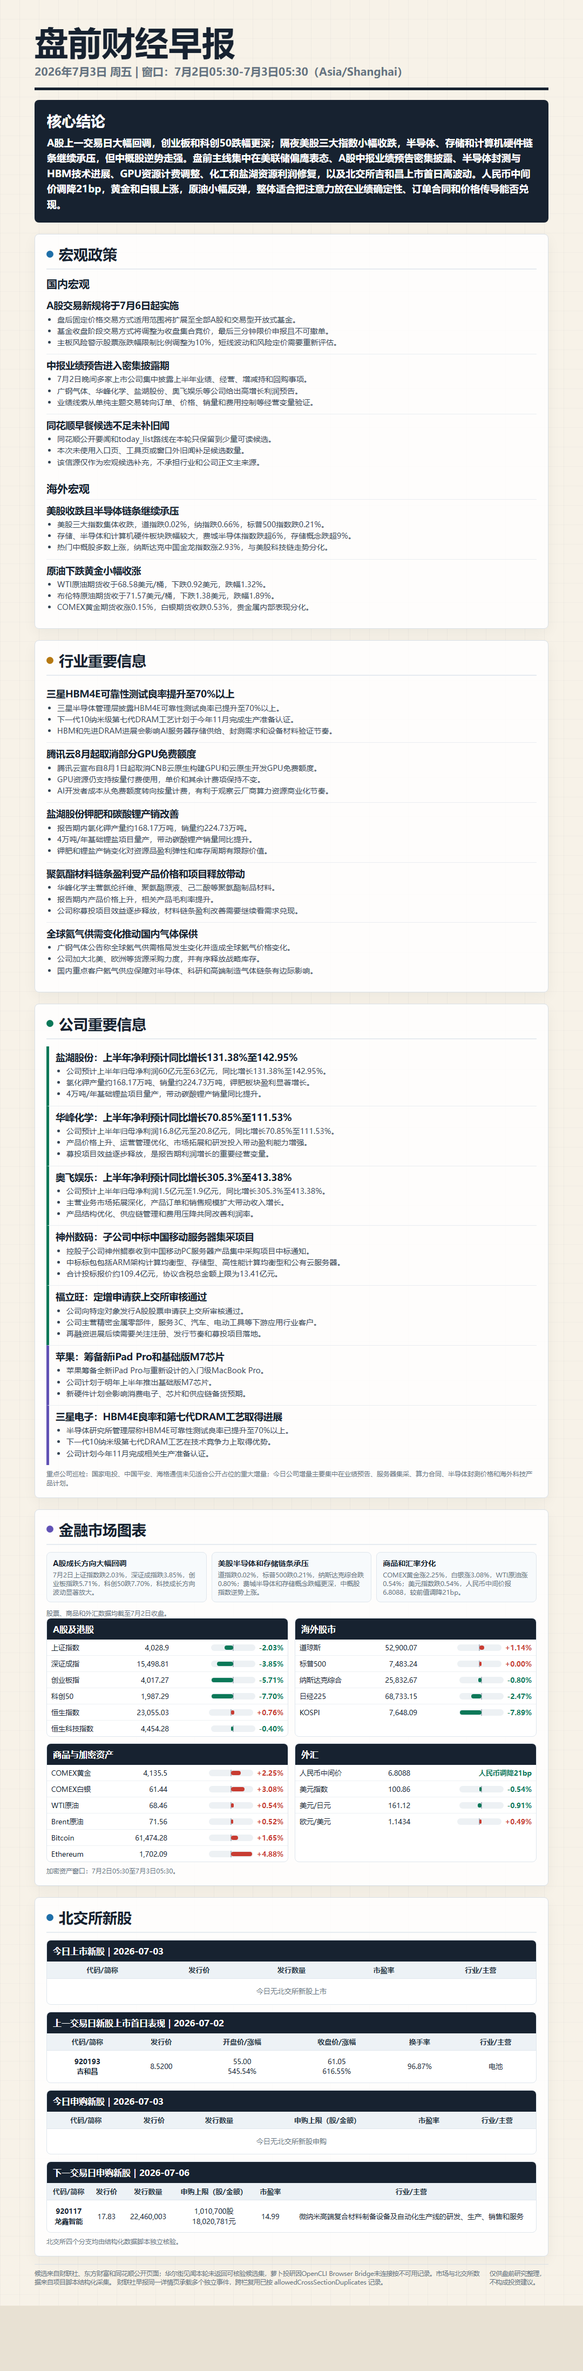
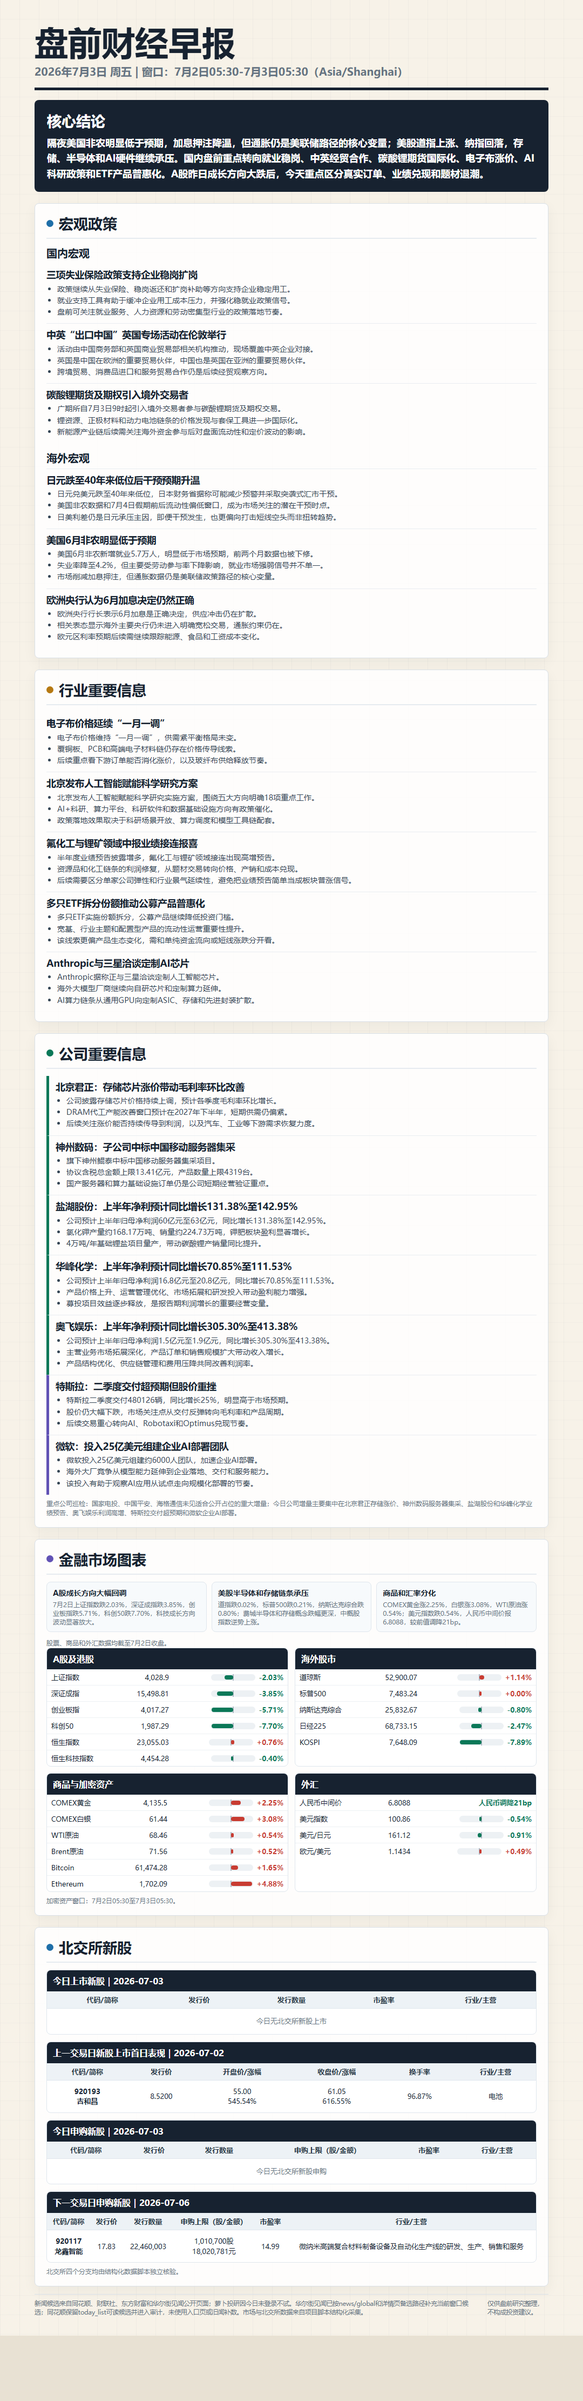
Update 2026-07-03 morning brief news

Changed region(s): [[0.0611, 0.0, 0.9472, 0.9676]]

diff --git a/2026-07-03/report.html b/2026-07-03/report.html
@@ -23,50 +23,62 @@
 </head>
 <body><main class="sheet">
   <header><h1>盘前财经早报</h1><div class="date">2026年7月3日 周五 | 窗口：7月2日05:30-7月3日05:30（Asia/Shanghai）</div></header>
-  <section class="lead"><h2>核心结论</h2><p>A股上一交易日大幅回调，创业板和科创50跌幅更深；隔夜美股三大指数小幅收跌，半导体、存储和计算机硬件链条继续承压，但中概股逆势走强。盘前主线集中在美联储偏鹰表态、A股中报业绩预告密集披露、半导体封测与HBM技术进展、GPU资源计费调整、化工和盐湖资源利润修复，以及北交所吉和昌上市首日高波动。人民币中间价调降21bp，黄金和白银上涨，原油小幅反弹，整体适合把注意力放在业绩确定性、订单合同和价格传导能否兑现。</p></section>
+  <section class="lead"><h2>核心结论</h2><p>隔夜美国非农明显低于预期，加息押注降温，但通胀仍是美联储路径的核心变量；美股道指上涨、纳指回落，存储、半导体和AI硬件继续承压。国内盘前重点转向就业稳岗、中英经贸合作、碳酸锂期货国际化、电子布涨价、AI科研政策和ETF产品普惠化。A股昨日成长方向大跌后，今天重点区分真实订单、业绩兑现和题材退潮。</p></section>
   <section class="section"><h2 class="section-title"><span class="dot"></span>宏观政策</h2><h3 class="subhead">国内宏观</h3>
     <article class="item ">
-      <h4>A股交易新规将于7月6日起实施</h4>
-      <ul><li>盘后固定价格交易方式适用范围将扩展至全部A股和交易型开放式基金。</li><li>基金收盘阶段交易方式将调整为收盘集合竞价，最后三分钟限价申报且不可撤单。</li><li>主板风险警示股票涨跌幅限制比例调整为10%，短线波动和风险定价需要重新评估。</li></ul>
+      <h4>三项失业保险政策支持企业稳岗扩岗</h4>
+      <ul><li>政策继续从失业保险、稳岗返还和扩岗补助等方向支持企业稳定用工。</li><li>就业支持工具有助于缓冲企业用工成本压力，并强化稳就业政策信号。</li><li>盘前可关注就业服务、人力资源和劳动密集型行业的政策落地节奏。</li></ul>
     </article>
     <article class="item ">
-      <h4>中报业绩预告进入密集披露期</h4>
-      <ul><li>7月2日晚间多家上市公司集中披露上半年业绩、经营、增减持和回购事项。</li><li>广钢气体、华峰化学、盐湖股份、奥飞娱乐等公司给出高增长利润预告。</li><li>业绩线索从单纯主题交易转向订单、价格、销量和费用控制等经营变量验证。</li></ul>
+      <h4>中英“出口中国”英国专场活动在伦敦举行</h4>
+      <ul><li>活动由中国商务部和英国商业贸易部相关机构推动，现场覆盖中英企业对接。</li><li>英国是中国在欧洲的重要贸易伙伴，中国也是英国在亚洲的重要贸易伙伴。</li><li>跨境贸易、消费品进口和服务贸易合作仍是后续经贸观察方向。</li></ul>
     </article>
     <article class="item ">
-      <h4>同花顺早餐候选不足未补旧闻</h4>
-      <ul><li>同花顺公开要闻和today_list路线在本轮只保留到少量可读候选。</li><li>本次未使用入口页、工具页或窗口外旧闻补足候选数量。</li><li>该信源仅作为宏观候选补充，不承担行业和公司正文主来源。</li></ul>
+      <h4>碳酸锂期货及期权引入境外交易者</h4>
+      <ul><li>广期所自7月3日9时起引入境外交易者参与碳酸锂期货及期权交易。</li><li>锂资源、正极材料和动力电池链条的价格发现与套保工具进一步国际化。</li><li>新能源产业链后续需关注海外资金参与后对盘面流动性和定价波动的影响。</li></ul>
     </article><h3 class="subhead">海外宏观</h3>
     <article class="item ">
-      <h4>美股收跌且半导体链条继续承压</h4>
-      <ul><li>美股三大指数集体收跌，道指跌0.02%，纳指跌0.66%，标普500指数跌0.21%。</li><li>存储、半导体和计算机硬件板块跌幅较大，费城半导体指数跌超6%，存储概念跌超9%。</li><li>热门中概股多数上涨，纳斯达克中国金龙指数涨2.93%，与美股科技链走势分化。</li></ul>
+      <h4>日元跌至40年来低位后干预预期升温</h4>
+      <ul><li>日元兑美元跌至40年来低位，日本财务省据称可能减少预警并采取突袭式汇市干预。</li><li>美国非农数据和7月4日假期前后流动性偏低窗口，成为市场关注的潜在干预时点。</li><li>日美利差仍是日元承压主因，即便干预发生，也更偏向打击短线空头而非扭转趋势。</li></ul>
     </article>
     <article class="item ">
-      <h4>原油下跌黄金小幅收涨</h4>
-      <ul><li>WTI原油期货收于68.58美元/桶，下跌0.92美元，跌幅1.32%。</li><li>布伦特原油期货收于71.57美元/桶，下跌1.38美元，跌幅1.89%。</li><li>COMEX黄金期货收涨0.15%，白银期货收跌0.53%，贵金属内部表现分化。</li></ul>
+      <h4>美国6月非农明显低于预期</h4>
+      <ul><li>美国6月非农新增就业5.7万人，明显低于市场预期，前两个月数据也被下修。</li><li>失业率降至4.2%，但主要受劳动参与率下降影响，就业市场强弱信号并不单一。</li><li>市场削减加息押注，但通胀数据仍是美联储政策路径的核心变量。</li></ul>
+    </article>
+    <article class="item ">
+      <h4>欧洲央行认为6月加息决定仍然正确</h4>
+      <ul><li>欧洲央行行长表示6月加息是正确决定，供应冲击仍在扩散。</li><li>相关表态显示海外主要央行仍未进入明确宽松交易，通胀约束仍在。</li><li>欧元区利率预期后续需继续跟踪能源、食品和工资成本变化。</li></ul>
     </article></section>
   <section class="section"><h2 class="section-title"><span class="dot" style="background:var(--gold)"></span>行业重要信息</h2>
     <article class="item ">
-      <h4>三星HBM4E可靠性测试良率提升至70%以上</h4>
-      <ul><li>三星半导体管理层披露HBM4E可靠性测试良率已提升至70%以上。</li><li>下一代10纳米级第七代DRAM工艺计划于今年11月完成生产准备认证。</li><li>HBM和先进DRAM进展会影响AI服务器存储供给、封测需求和设备材料验证节奏。</li></ul>
+      <h4>电子布价格延续“一月一调”</h4>
+      <ul><li>电子布价格维持“一月一调”，供需紧平衡格局未变。</li><li>覆铜板、PCB和高端电子材料链仍存在价格传导线索。</li><li>后续重点看下游订单能否消化涨价，以及玻纤布供给释放节奏。</li></ul>
     </article>
     <article class="item ">
-      <h4>腾讯云8月起取消部分GPU免费额度</h4>
-      <ul><li>腾讯云宣布自8月1日起取消CNB云原生构建GPU和云原生开发GPU免费额度。</li><li>GPU资源仍支持按量付费使用，单价和其余计费项保持不变。</li><li>AI开发者成本从免费额度转向按量计费，有利于观察云厂商算力资源商业化节奏。</li></ul>
+      <h4>北京发布人工智能赋能科学研究方案</h4>
+      <ul><li>北京发布人工智能赋能科学研究实施方案，围绕五大方向明确18项重点工作。</li><li>AI+科研、算力平台、科研软件和数据基础设施方向有政策催化。</li><li>政策落地效果取决于科研场景开放、算力调度和模型工具链配套。</li></ul>
     </article>
     <article class="item ">
-      <h4>盐湖股份钾肥和碳酸锂产销改善</h4>
-      <ul><li>报告期内氯化钾产量约168.17万吨，销量约224.73万吨。</li><li>4万吨/年基础锂盐项目量产，带动碳酸锂产销量同比提升。</li><li>钾肥和锂盐产销变化对资源品盈利弹性和库存周期有跟踪价值。</li></ul>
+      <h4>氟化工与锂矿领域中报业绩接连报喜</h4>
+      <ul><li>半年度业绩预告披露增多，氟化工与锂矿领域接连出现高增预告。</li><li>资源品和化工链条的利润修复，从题材交易转向价格、产销和成本兑现。</li><li>后续需要区分单家公司弹性和行业景气延续性，避免把业绩预告简单当成板块普涨信号。</li></ul>
     </article>
     <article class="item ">
-      <h4>聚氨酯材料链条盈利受产品价格和项目释放带动</h4>
-      <ul><li>华峰化学主营氨纶纤维、聚氨酯原液、己二酸等聚氨酯制品材料。</li><li>报告期内产品价格上升，相关产品毛利率提升。</li><li>公司称募投项目效益逐步释放，材料链条盈利改善需要继续看需求兑现。</li></ul>
+      <h4>多只ETF拆分份额推动公募产品普惠化</h4>
+      <ul><li>多只ETF实施份额拆分，公募产品继续降低投资门槛。</li><li>宽基、行业主题和配置型产品的流动性运营重要性提升。</li><li>该线索更偏产品生态变化，需和单纯资金流向或短线涨跌分开看。</li></ul>
     </article>
     <article class="item ">
-      <h4>全球氦气供需变化推动国内气体保供</h4>
-      <ul><li>广钢气体公告称全球氦气供需格局发生变化并造成全球氦气价格变化。</li><li>公司加大北美、欧洲等货源采购力度，并有序释放战略库存。</li><li>国内重点客户氦气供应保障对半导体、科研和高端制造气体链条有边际影响。</li></ul>
+      <h4>Anthropic与三星洽谈定制AI芯片</h4>
+      <ul><li>Anthropic据称正与三星洽谈定制人工智能芯片。</li><li>海外大模型厂商继续向自研芯片和定制算力延伸。</li><li>AI算力链条从通用GPU向定制ASIC、存储和先进封装扩散。</li></ul>
     </article></section>
   <section class="section"><h2 class="section-title"><span class="dot" style="background:var(--green)"></span>公司重要信息</h2>
+    <article class="item company-line">
+      <h4>北京君正：存储芯片涨价带动毛利率环比改善</h4>
+      <ul><li>公司披露存储芯片价格持续上调，预计各季度毛利率环比增长。</li><li>DRAM代工产能改善窗口预计在2027年下半年，短期供需仍偏紧。</li><li>后续关注涨价能否持续传导到利润，以及汽车、工业等下游需求恢复力度。</li></ul>
+    </article>
+    <article class="item company-line">
+      <h4>神州数码：子公司中标中国移动服务器集采</h4>
+      <ul><li>旗下神州鲲泰中标中国移动服务器集采项目。</li><li>协议含税总金额上限13.41亿元，产品数量上限4319台。</li><li>国产服务器和算力基础设施订单仍是公司短期经营验证重点。</li></ul>
+    </article>
     <article class="item company-line">
       <h4>盐湖股份：上半年净利预计同比增长131.38%至142.95%</h4>
       <ul><li>公司预计上半年归母净利润60亿元至63亿元，同比增长131.38%至142.95%。</li><li>氯化钾产量约168.17万吨、销量约224.73万吨，钾肥板块盈利显著增长。</li><li>4万吨/年基础锂盐项目量产，带动碳酸锂产销量同比提升。</li></ul>
@@ -76,26 +88,18 @@
       <ul><li>公司预计上半年归母净利润16.8亿元至20.8亿元，同比增长70.85%至111.53%。</li><li>产品价格上升、运营管理优化、市场拓展和研发投入带动盈利能力增强。</li><li>募投项目效益逐步释放，是报告期利润增长的重要经营变量。</li></ul>
     </article>
     <article class="item company-line">
-      <h4>奥飞娱乐：上半年净利预计同比增长305.3%至413.38%</h4>
-      <ul><li>公司预计上半年归母净利润1.5亿元至1.9亿元，同比增长305.3%至413.38%。</li><li>主营业务市场拓展深化，产品订单和销售规模扩大带动收入增长。</li><li>产品结构优化、供应链管理和费用压降共同改善利润率。</li></ul>
-    </article>
-    <article class="item company-line">
-      <h4>神州数码：子公司中标中国移动服务器集采项目</h4>
-      <ul><li>控股子公司神州鲲泰收到中国移动PC服务器产品集中采购项目中标通知。</li><li>中标标包包括ARM架构计算均衡型、存储型、高性能计算均衡型和公有云服务器。</li><li>合计投标报价约109.4亿元，协议含税总金额上限为13.41亿元。</li></ul>
-    </article>
-    <article class="item company-line">
-      <h4>福立旺：定增申请获上交所审核通过</h4>
-      <ul><li>公司向特定对象发行A股股票申请获上交所审核通过。</li><li>公司主营精密金属零部件，服务3C、汽车、电动工具等下游应用行业客户。</li><li>再融资进展后续需要关注注册、发行节奏和募投项目落地。</li></ul>
+      <h4>奥飞娱乐：上半年净利预计同比增长305.30%至413.38%</h4>
+      <ul><li>公司预计上半年归母净利润1.5亿元至1.9亿元，同比增长305.30%至413.38%。</li><li>主营业务市场拓展深化，产品订单和销售规模扩大带动收入增长。</li><li>产品结构优化、供应链管理和费用压降共同改善利润率。</li></ul>
     </article>
     <article class="item company-line overseas">
-      <h4>苹果：筹备新iPad Pro和基础版M7芯片</h4>
-      <ul><li>苹果筹备全新iPad Pro与重新设计的入门级MacBook Pro。</li><li>公司计划于明年上半年推出基础版M7芯片。</li><li>新硬件计划会影响消费电子、芯片和供应链备货预期。</li></ul>
+      <h4>特斯拉：二季度交付超预期但股价重挫</h4>
+      <ul><li>特斯拉二季度交付480126辆，同比增长25%，明显高于市场预期。</li><li>股价仍大幅下跌，市场关注点从交付反弹转向毛利率和产品周期。</li><li>后续交易重心转向AI、Robotaxi和Optimus兑现节奏。</li></ul>
     </article>
     <article class="item company-line overseas">
-      <h4>三星电子：HBM4E良率和第七代DRAM工艺取得进展</h4>
-      <ul><li>半导体研究所管理层称HBM4E可靠性测试良率已提升至70%以上。</li><li>下一代10纳米级第七代DRAM工艺在技术竞争力上取得优势。</li><li>公司计划今年11月完成相关生产准备认证。</li></ul>
-    </article><p class="check-note">重点公司巡检：国家电投、中国平安、海格通信未见适合公开占位的重大增量；今日公司增量主要集中在业绩预告、服务器集采、算力合同、半导体封测价格和海外科技产品计划。</p></section>
+      <h4>微软：投入25亿美元组建企业AI部署团队</h4>
+      <ul><li>微软投入25亿美元组建约6000人团队，加速企业AI部署。</li><li>海外大厂竞争从模型能力延伸到企业落地、交付和服务能力。</li><li>该投入有助于观察AI应用从试点走向规模化部署的节奏。</li></ul>
+    </article><p class="check-note">重点公司巡检：国家电投、中国平安、海格通信未见适合公开占位的重大增量；今日公司增量主要集中在北京君正存储涨价、神州数码服务器集采、盐湖股份和华峰化学业绩预告、奥飞娱乐利润高增、特斯拉交付超预期和微软企业AI部署。</p></section>
   <section class="section"><h2 class="section-title"><span class="dot" style="background:var(--violet)"></span>金融市场图表</h2><div class="market-headlines"><div class="market-note"><b>A股成长方向大幅回调</b><span>7月2日上证指数跌2.03%，深证成指跌3.85%，创业板指跌5.71%，科创50跌7.70%，科技成长方向波动显著放大。</span></div><div class="market-note"><b>美股半导体和存储链条承压</b><span>道指跌0.02%，标普500跌0.21%，纳斯达克综合跌0.80%；费城半导体和存储概念跌幅更深，中概股指数逆势上涨。</span></div><div class="market-note"><b>商品和汇率分化</b><span>COMEX黄金涨2.25%，白银涨3.08%，WTI原油涨0.54%；美元指数跌0.54%，人民币中间价报6.8088，较前值调降21bp。</span></div></div><p class="market-caption">股票、商品和外汇数据均截至7月2日收盘。</p><div class="market-grid"><div class="market-box"><h3>A股及港股</h3><table><tr><td>上证指数</td><td>4,028.9</td><td><span class="bar-wrap"><span class="bar neg downb" style="width:16.3px"></span></span><span class="down">-2.03%</span></td></tr><tr><td>深证成指</td><td>15,498.81</td><td><span class="bar-wrap"><span class="bar neg downb" style="width:30.8px"></span></span><span class="down">-3.85%</span></td></tr><tr><td>创业板指</td><td>4,017.27</td><td><span class="bar-wrap"><span class="bar neg downb" style="width:40.0px"></span></span><span class="down">-5.71%</span></td></tr><tr><td>科创50</td><td>1,987.29</td><td><span class="bar-wrap"><span class="bar neg downb" style="width:40.0px"></span></span><span class="down">-7.70%</span></td></tr><tr><td>恒生指数</td><td>23,055.03</td><td><span class="bar-wrap"><span class="bar pos upb" style="width:6.1px"></span></span><span class="up">+0.76%</span></td></tr><tr><td>恒生科技指数</td><td>4,454.28</td><td><span class="bar-wrap"><span class="bar neg downb" style="width:4.0px"></span></span><span class="down">-0.40%</span></td></tr></table></div><div class="market-box"><h3>海外股市</h3><table><tr><td>道琼斯</td><td>52,900.07</td><td><span class="bar-wrap"><span class="bar pos upb" style="width:9.1px"></span></span><span class="up">+1.14%</span></td></tr><tr><td>标普500</td><td>7,483.24</td><td><span class="bar-wrap"><span class="bar pos upb" style="width:4.0px"></span></span><span class="up">+0.00%</span></td></tr><tr><td>纳斯达克综合</td><td>25,832.67</td><td><span class="bar-wrap"><span class="bar neg downb" style="width:6.4px"></span></span><span class="down">-0.80%</span></td></tr><tr><td>日经225</td><td>68,733.15</td><td><span class="bar-wrap"><span class="bar neg downb" style="width:19.8px"></span></span><span class="down">-2.47%</span></td></tr><tr><td>KOSPI</td><td>7,648.09</td><td><span class="bar-wrap"><span class="bar neg downb" style="width:40.0px"></span></span><span class="down">-7.89%</span></td></tr></table></div><div class="market-box"><h3>商品与加密资产</h3><table><tr><td>COMEX黄金</td><td>4,135.5</td><td><span class="bar-wrap"><span class="bar pos upb" style="width:18.0px"></span></span><span class="up">+2.25%</span></td></tr><tr><td>COMEX白银</td><td>61.44</td><td><span class="bar-wrap"><span class="bar pos upb" style="width:24.6px"></span></span><span class="up">+3.08%</span></td></tr><tr><td>WTI原油</td><td>68.46</td><td><span class="bar-wrap"><span class="bar pos upb" style="width:4.3px"></span></span><span class="up">+0.54%</span></td></tr><tr><td>Brent原油</td><td>71.56</td><td><span class="bar-wrap"><span class="bar pos upb" style="width:4.2px"></span></span><span class="up">+0.52%</span></td></tr><tr><td>Bitcoin</td><td>61,474.28</td><td><span class="bar-wrap"><span class="bar pos upb" style="width:13.2px"></span></span><span class="up">+1.65%</span></td></tr><tr><td>Ethereum</td><td>1,702.09</td><td><span class="bar-wrap"><span class="bar pos upb" style="width:39.0px"></span></span><span class="up">+4.88%</span></td></tr></table></div><div class="market-box"><h3>外汇</h3><table><tr><td>人民币中间价</td><td>6.8088</td><td><span class="down">人民币调降21bp</span></td></tr><tr><td>美元指数</td><td>100.86</td><td><span class="bar-wrap"><span class="bar neg downb" style="width:4.3px"></span></span><span class="down">-0.54%</span></td></tr><tr><td>美元/日元</td><td>161.12</td><td><span class="bar-wrap"><span class="bar neg downb" style="width:7.3px"></span></span><span class="down">-0.91%</span></td></tr><tr><td>欧元/美元</td><td>1.1434</td><td><span class="bar-wrap"><span class="bar pos upb" style="width:4.0px"></span></span><span class="up">+0.49%</span></td></tr></table></div></div><p class="market-caption">加密资产窗口：7月2日05:30至7月3日05:30。</p></section>
   <section class="section"><h2 class="section-title"><span class="dot" style="background:var(--blue)"></span>北交所新股</h2><div class="ipo-box"><h3>今日上市新股｜2026-07-03</h3><table class="ipo-table"><tr><th>代码/简称</th><th>发行价</th><th>发行数量</th><th>市盈率</th><th>行业/主营</th></tr><tr><td class="empty" colspan="5">今日无北交所新股上市</td></tr></table></div><div class="ipo-box"><h3>上一交易日新股上市首日表现｜2026-07-02</h3><table class="ipo-table"><tr><th>代码/简称</th><th>发行价</th><th>开盘价/涨幅</th><th>收盘价/涨幅</th><th>换手率</th><th>行业/主营</th></tr><tr><td class="codecell">920193<br>吉和昌</td><td>8.5200</td><td>55.00<br>545.54%</td><td>61.05<br>616.55%</td><td>96.87%</td><td>电池</td></tr></table></div><div class="ipo-box"><h3>今日申购新股｜2026-07-03</h3><table class="ipo-table"><tr><th>代码/简称</th><th>发行价</th><th>发行数量</th><th>申购上限（股/金额）</th><th>市盈率</th><th>行业/主营</th></tr><tr><td class="empty" colspan="6">今日无北交所新股申购</td></tr></table></div><div class="ipo-box"><h3>下一交易日申购新股｜2026-07-06</h3><table class="ipo-table"><tr><th>代码/简称</th><th>发行价</th><th>发行数量</th><th>申购上限（股/金额）</th><th>市盈率</th><th>行业/主营</th></tr><tr><td class="codecell">920117<br>龙鑫智能</td><td>17.83</td><td>22,460,003</td><td class="shares">1,010,700股<br>18,020,781元</td><td>14.99</td><td>微纳米高端复合材料制备设备及自动化生产线的研发、生产、销售和服务</td></tr></table></div><div class="check-note">北交所四个分支均由结构化数据脚本独立核验。</div></section>
-  <footer><div>候选来自财联社、东方财富和同花顺公开页面；华尔街见闻本轮未返回可核验候选集，萝卜投研因OpenCLI Browser Bridge未连接按不可用记录。市场与北交所数据来自项目脚本结构化采集。 财联社早报同一详情页承载多个独立事件，跨栏复用已按 allowedCrossSectionDuplicates 记录。</div><div>仅供盘前研究整理，不构成投资建议。</div></footer>
+  <footer><div>新闻候选来自同花顺、财联社、东方财富和华尔街见闻公开页面；萝卜投研因今日未登录不试。华尔街见闻已按news/global和详情页备选路径补充当前窗口候选；同花顺保留today_list可读候选并进入审计，未使用入口页或旧闻补数。市场与北交所数据来自项目脚本结构化采集。</div><div>仅供盘前研究整理，不构成投资建议。</div></footer>
 </main></body></html>

diff --git a/2026-07-03/sources-2026-07-03.md b/2026-07-03/sources-2026-07-03.md
@@ -1,6 +1,6 @@
 # Sources - 2026-07-03
 
 - Market and BSE data: project structured collection from Eastmoney, Sina, CoinGecko and SAFE.
-- News candidates: 财联社 `m.cls.cn/telegraph`/detail page, 东方财富 `finance.eastmoney.com`, 同花顺 `news.10jqka.com.cn` public route.
-- Luobo Touyan: unavailable because OpenCLI Browser Bridge extension was not connected for `https://r.datayes.com/`.
-- Wallstreetcn: unavailable because this run did not return a verifiable fixed-route candidate set inside the report window.
+- News candidates: 同花顺 `news.10jqka.com.cn/today_list`, 财联社 `m.cls.cn/telegraph` and detail pages, 东方财富 `finance.eastmoney.com`, 华尔街见闻 `wallstreetcn.com/news/global` and article detail pages.
+- Luobo Touyan: skipped today because the user confirmed it was not logged in.
+- Wallstreetcn: fixed route recovered through `news/global` plus article detail-page backup; stale breakfast articles and user-rejected overlapping Meta/storage trading items were not used in正文.
